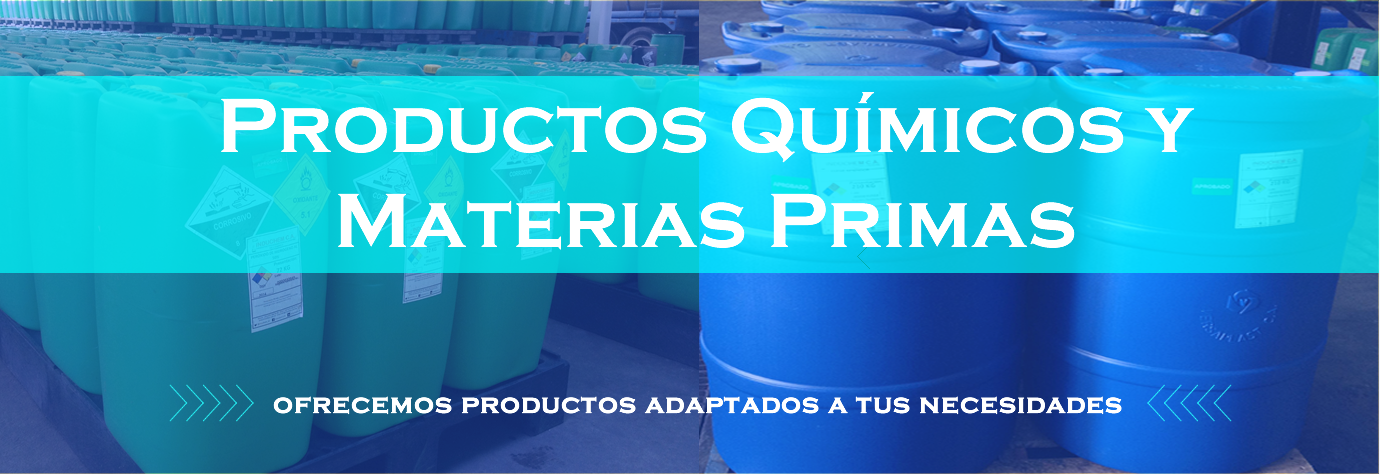
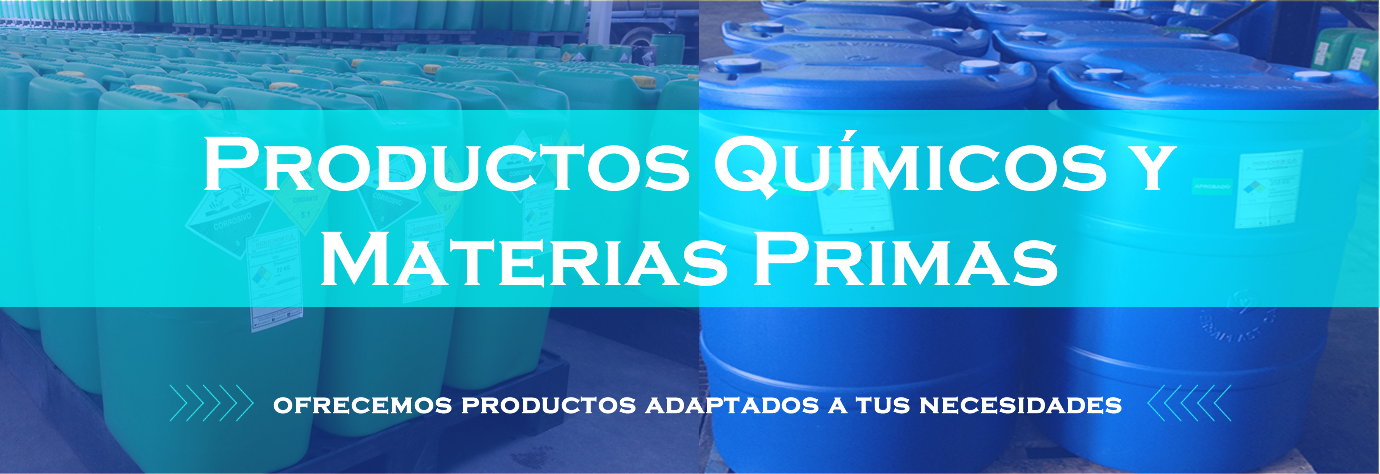
creando sidebar

Changed region(s): [[0.0, 0.1477, 1.0, 0.6498]]

diff --git a/resources/views/quimicos/sideBarQuimicos3.blade.php b/resources/views/quimicos/sideBarQuimicos3.blade.php
@@ -1,0 +1,92 @@
+	<div class="panel-group" id="accordion">
+
+	<div class="panel panel-default" style="border: 1px solid #ddd;">
+
+		<div class="panel-heading">
+			<h4 class="panel-title" style="text-shadow: 2px 2px 1px #dff0d8;">
+				<a data-toggle="collapse" data-parent="#accordion" href="#collapse1" class="lead">Lineas de Productos</a>
+			</h4>
+		</div>
+
+		<div id="collapse1" class="panel-collapse collapse in">
+			<div class="panel-body" style="padding: 0; padding-right: 25px;padding-left: 10px;border-top: 0;">
+				<ul class="list-unstyled" style="padding-left: 20px;">
+					<li><a href="{{ url('AbrillantadoresDesoxidante') }}">Abrillantadores Desoxidante</a></li>
+
+					<li> <a href="{{ url('Bactericidas') }}">Bactericidas</a>  </li>
+
+					<li><a href="{{ url('BactericidaAmonio') }}">Bactericida amonio cuaternario</a></li>
+
+					<li><a href="{{ url('BactericidasClorados') }}">Bactericidas clorados</a></li>
+
+					<li><a href="{{ url('BactericidasOxigeno') }}">Bactericidas de oxígeno activo</a></li>
+
+					<li><a href="{{ url('Desengrasantes') }}">Desengrasantes</a></li>
+
+					<li><a href="{{ url('DesengrasantesAlcalinos') }}">Desengrasantes Alcalinos</a></li>
+
+					<li><a href="{{ url('Desengrasantescocinas') }}">Desengrasantes de cocinas y hornos </a></li>
+
+					<li><a href="{{ url('DesincrustanteLimpiadorporcelana') }}">Desincrustante y Limpiador de porcelana</a></li>
+
+					<li><a href="{{ url('Desinfectantes') }}">Desinfectantes</a></li>
+
+					<li><a href="{{ url('Detergentes') }}">Detergentes alcalinos clorados</a></li>
+
+					<li><a href="{{ url('Detergentesenpolvo') }}">Detergentes en polvo</a></li>
+
+					<li><a href="{{ url('Jabonesliquidos') }}">Jabones líquidos</a></li>
+
+					<li><a href="{{ url('Lavanderia') }}">Lavandería</a></li>
+
+					<li><a href="{{ url('Limpiadoresacidos') }}">Limpiadores de Ácidos</a></li>
+
+					<li><a href="{{ url('Limpiadorescausticos') }}">Limpiadores Cáusticos</a></li>
+
+					<li><a href="{{ url('Lubricantes') }}">Lubricantes para Cadenas</a></li>
+
+					<li><a href="{{ url('Solventes') }}">Solventes Dieléctricos</a></li>							
+				</ul>
+			</div>
+		</div>
+	</div>
+
+	<div class="panel panel-default" style="box-shadow: 1px 1px 2px 0px #080808;border: 1px solid #ddd;">
+		<div class="panel-heading" style="border-radius: 16px;">
+			<h4 class="panel-title" style="text-shadow: 2px 2px 1px #dff0d8;">
+				<a href="{{ url('materiasPrimas') }}" class="lead">Materias Primas</a>
+			</h4>
+		</div>
+
+		<!-- <div id="collapse2" class="panel-collapse collapse">
+			<div class="panel-body" style="padding: 0; padding-right: 25px;padding-left: 10px;border-top: 0;">
+				<ul class="list-unstyled" style="padding-left: 20px;">
+					<li><a href="">Ácido Clorhidrico al 30%</a></li>
+					<li><a href="">Ácido Clorhidrico al 30%</a></li>
+					<li><a href="#">Ácido Nítrico al 56%</a></li>              
+					<li><a href="#">Ácido Sulfónico al 98% </a></li>
+					<li><a href="#">Ácido Clorhídrico al 30% </a></li>
+					<li><a href="#">Cloro al 5% </a></li>                        
+					<li><a href="#">Peróxido de Hidrógeno 50% </a></li>
+					<li><a href="#">Hidróxido de Sodio </a></li>
+					<li><a href="#">Urea </a></li>
+					<li><a href="#">Soda Cáustica en Escamas </a></li>
+					<li><a href="#">Butil Oxitol  </a></li>
+					<li><a href="#">Etanol (Alcohol F1) </a></li>
+				</ul>
+			</div>
+		</div> -->
+	</div>
+
+</div>
+
+<style type="text/css">
+	body{
+		background-color: rgba(221, 221, 221, 0.5);
+	}
+	
+	#itemQuimico{
+		background-color: #fff;
+    	padding: 1em;
+	}
+</style>

diff --git a/resources/views/quimicos/lineas/AbrillantadoresDesoxidante.blade.php b/resources/views/quimicos/lineas/AbrillantadoresDesoxidante.blade.php
@@ -17,7 +17,7 @@
 	.welcome_bar {
 	    background: url('{{ asset('img/fondoHeaderContacto.png') }}') 0 0;
 	    clear: both;
-	    margin-bottom: 44px;
+	    /*margin-bottom: 44px;*/
 	    position: relative;
 	    z-index: 10;
 	}
@@ -54,7 +54,7 @@
 		@include('home.navbar-op5')
 	</header>
 	
-	<div class="container-fluid" style="height: 110px;">
+	<div class="container-fluid">
 
 		<div class="row welcome_bar">
 			<div class="container">
@@ -68,33 +68,11 @@
 					</div>
 					<div class="breadcrumbs"><a href="{{ url('home') }}">Inicio</a> Químicos</div>
 				</div>
-
-				<div class="col-sm-5 col-xs-12 bar">				
-				</div>
-
 			</div>
 		</div>
 
 	</div>
-
-	<!-- <div class="container" >
-		<div class="row" style="padding-top: 10px; margin-bottom: 10px;">
-
-			<div class="col-xs-12" id="cabecera" >
-				<div style="display: inline-block;" >
-					
-					<img src="{{ asset('img/te.png') }}" height="63" width="63" class="img-responsive">
-				</div>
-				<div style="padding-left: 5px; display: inline-block;">
-					
-					<h1 style="margin-bottom: 0;margin-top: 0;"><span>Productos</span> Químicos</h1>
-					<div class="breadcrumbs"><a href="{{ url('home') }}">Inicio</a> Químicos</div>
-				</div></div>
-				
-
-		</div>
-
-	</div> -->
+	
 
 	<div class="container">
 		<div class="row">
@@ -102,7 +80,7 @@
 			<div class="col-xs-4" >
 				<div class="row">
 					<div class="col-xs-12" id="sidebar" style="padding-left: 0;padding-right: 0;">
-						@include('quimicos.sideBarQuimicos2')						
+						@include('quimicos.sideBarQuimicos3')						
 					</div>
 												
 				</div>
@@ -177,6 +155,7 @@
 	#sidebar ul li{
 		height: 30px;
 	    border-top: 1px solid #eeeeee;
+	    border-bottom: 1px solid #eeeeee;
 	    padding-top: 4px;
 	    padding-bottom: 3px;    
 	}

diff --git a/app/Http/routes.php b/app/Http/routes.php
@@ -134,7 +134,8 @@ route::get('Solventes', function(){		// Pagina de los Productos
 });
 
 
-//--------------------------------------------------------
+
+//------------------------------------------------------------------
 route::get('materiasPrimas', function(){		// Pagina de las MAterias PRimas
 	return view('quimicos.materiasPrimas');
 });
